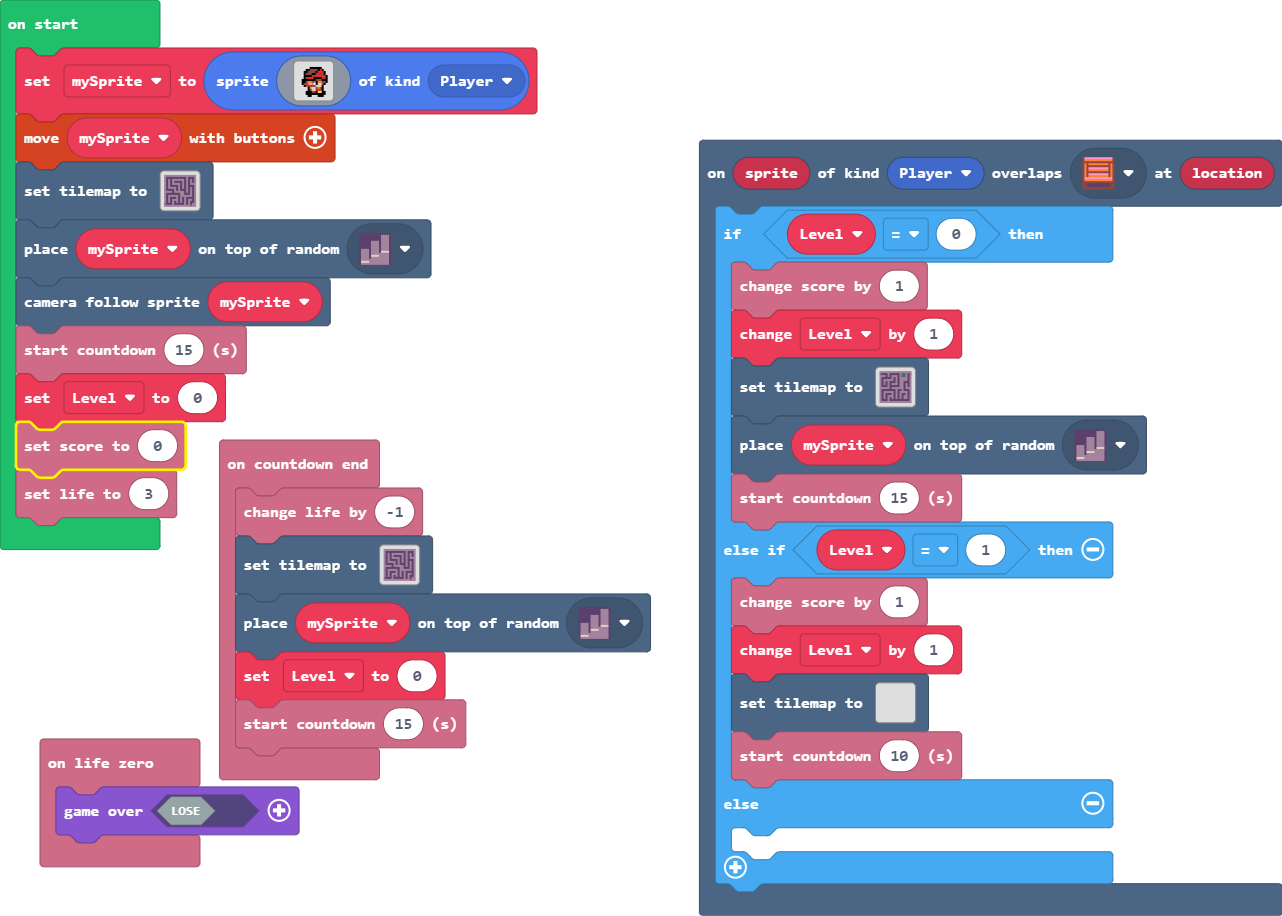
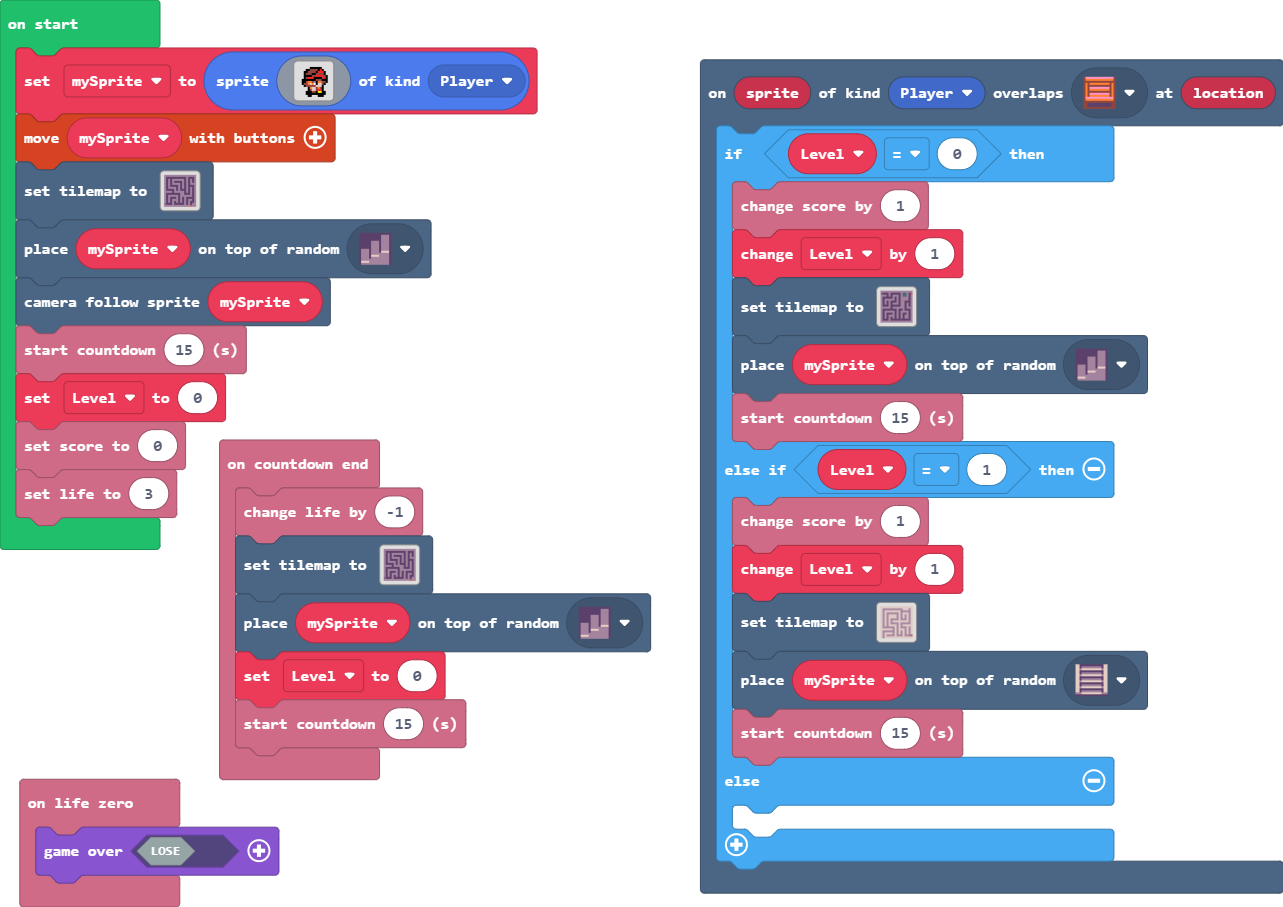
Update main.blocks, main.ts

diff --git a/main.ts b/main.ts
@@ -25,25 +25,26 @@ scene.onOverlapTile(SpriteKind.Player, sprites.dungeon.stairLadder, function (sp
     } else if (Level == 1) {
         info.changeScoreBy(1)
         Level += 1
-        tiles.setTilemap(tiles.createTilemap(hex`1000100000000000000000000000000000000000000000000000000000000000000000000000000000000000000000000000000000000000000000000000000000000000000000000000000000000000000000000000000000000000000000000000000000000000000000000000000000000000000000000000000000000000000000000000000000000000000000000000000000000000000000000000000000000000000000000000000000000000000000000000000000000000000000000000000000000000000000000000000000000000000000000000000000000000000000000000000000000000000000000000000000000000000000000000000000000000`, img`
-            . . . . . . . . . . . . . . . . 
-            . . . . . . . . . . . . . . . . 
-            . . . . . . . . . . . . . . . . 
-            . . . . . . . . . . . . . . . . 
-            . . . . . . . . . . . . . . . . 
-            . . . . . . . . . . . . . . . . 
-            . . . . . . . . . . . . . . . . 
-            . . . . . . . . . . . . . . . . 
-            . . . . . . . . . . . . . . . . 
-            . . . . . . . . . . . . . . . . 
-            . . . . . . . . . . . . . . . . 
-            . . . . . . . . . . . . . . . . 
-            . . . . . . . . . . . . . . . . 
-            . . . . . . . . . . . . . . . . 
-            . . . . . . . . . . . . . . . . 
-            . . . . . . . . . . . . . . . . 
-            `, [myTiles.transparency16], TileScale.Sixteen))
-        info.startCountdown(10)
[1 lines of base64/hex data omitted]
+            2 2 2 2 2 2 2 2 2 2 2 2 2 2 2 2 
+            2 . . . . . . . . . . 2 2 2 . 2 
+            2 . 2 2 2 2 2 2 2 2 . . . . . 2 
+            2 . 2 . . . . . . 2 . 2 2 2 . 2 
+            2 . 2 . 2 2 2 2 . 2 . 2 . 2 . 2 
+            2 . 2 . 2 2 2 2 . 2 . 2 . 2 . 2 
+            2 . 2 . 2 . . . . 2 . . . 2 . 2 
+            2 . 2 . 2 . 2 2 2 2 2 2 2 2 . 2 
+            2 . 2 . 2 . . . . 2 . . . . . 2 
+            2 . 2 . 2 2 2 2 . 2 . 2 2 2 2 2 
+            2 . . . . . . 2 . 2 . . . 2 . 2 
+            2 2 2 2 2 2 . 2 . 2 2 2 . 2 . 2 
+            2 . . . . . . 2 . 2 . 2 . 2 . 2 
+            2 . 2 2 2 2 . 2 . 2 . 2 . 2 . 2 
+            2 . 2 . . . . 2 . . . 2 . . . . 
+            2 . 2 2 2 2 2 2 2 2 2 2 2 2 2 2 
+            `, [myTiles.transparency16,sprites.dungeon.floorLight2,sprites.dungeon.stairNorth,sprites.dungeon.stairLadder,sprites.vehicle.roadVertical,sprites.vehicle.roadHorizontal,sprites.vehicle.roadTurn1,sprites.vehicle.roadTurn3,sprites.vehicle.roadIntersection1,sprites.vehicle.roadTurn4,sprites.vehicle.roadIntersection4,sprites.vehicle.roadTurn2,sprites.vehicle.roadIntersection2], TileScale.Sixteen))
+        tiles.placeOnRandomTile(mySprite, sprites.dungeon.stairNorth)
+        info.startCountdown(15)
     } else {
     	
     }
